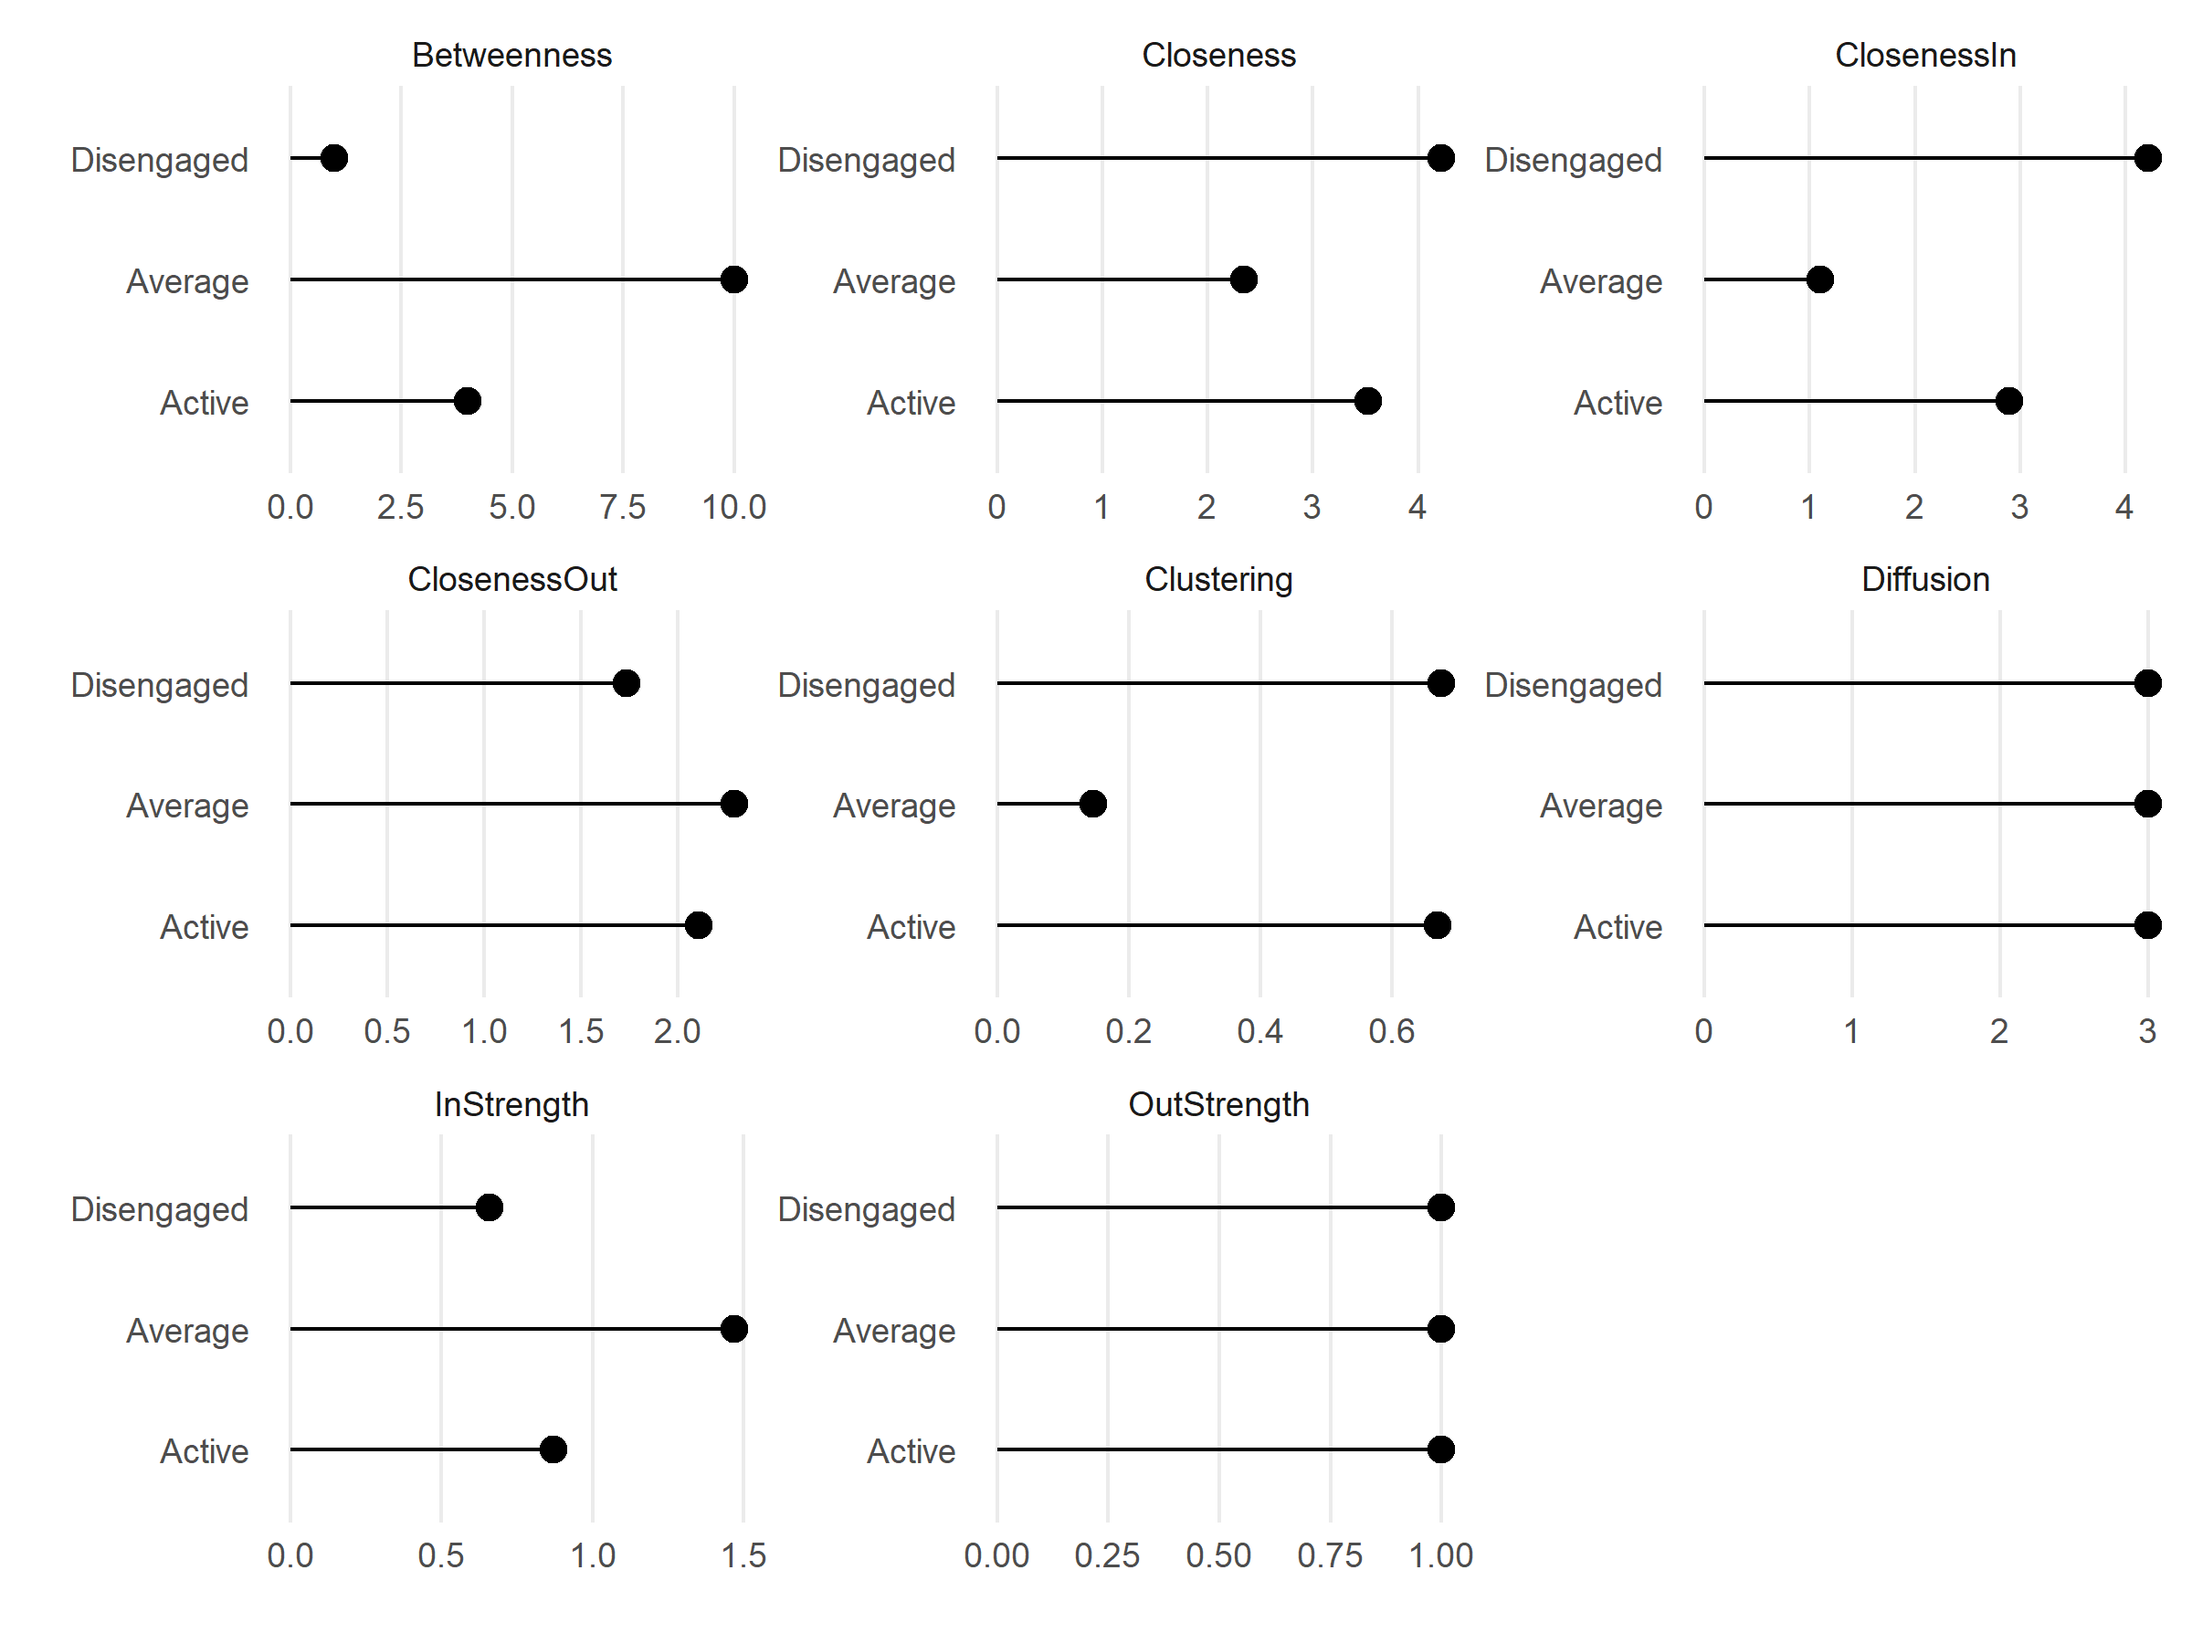
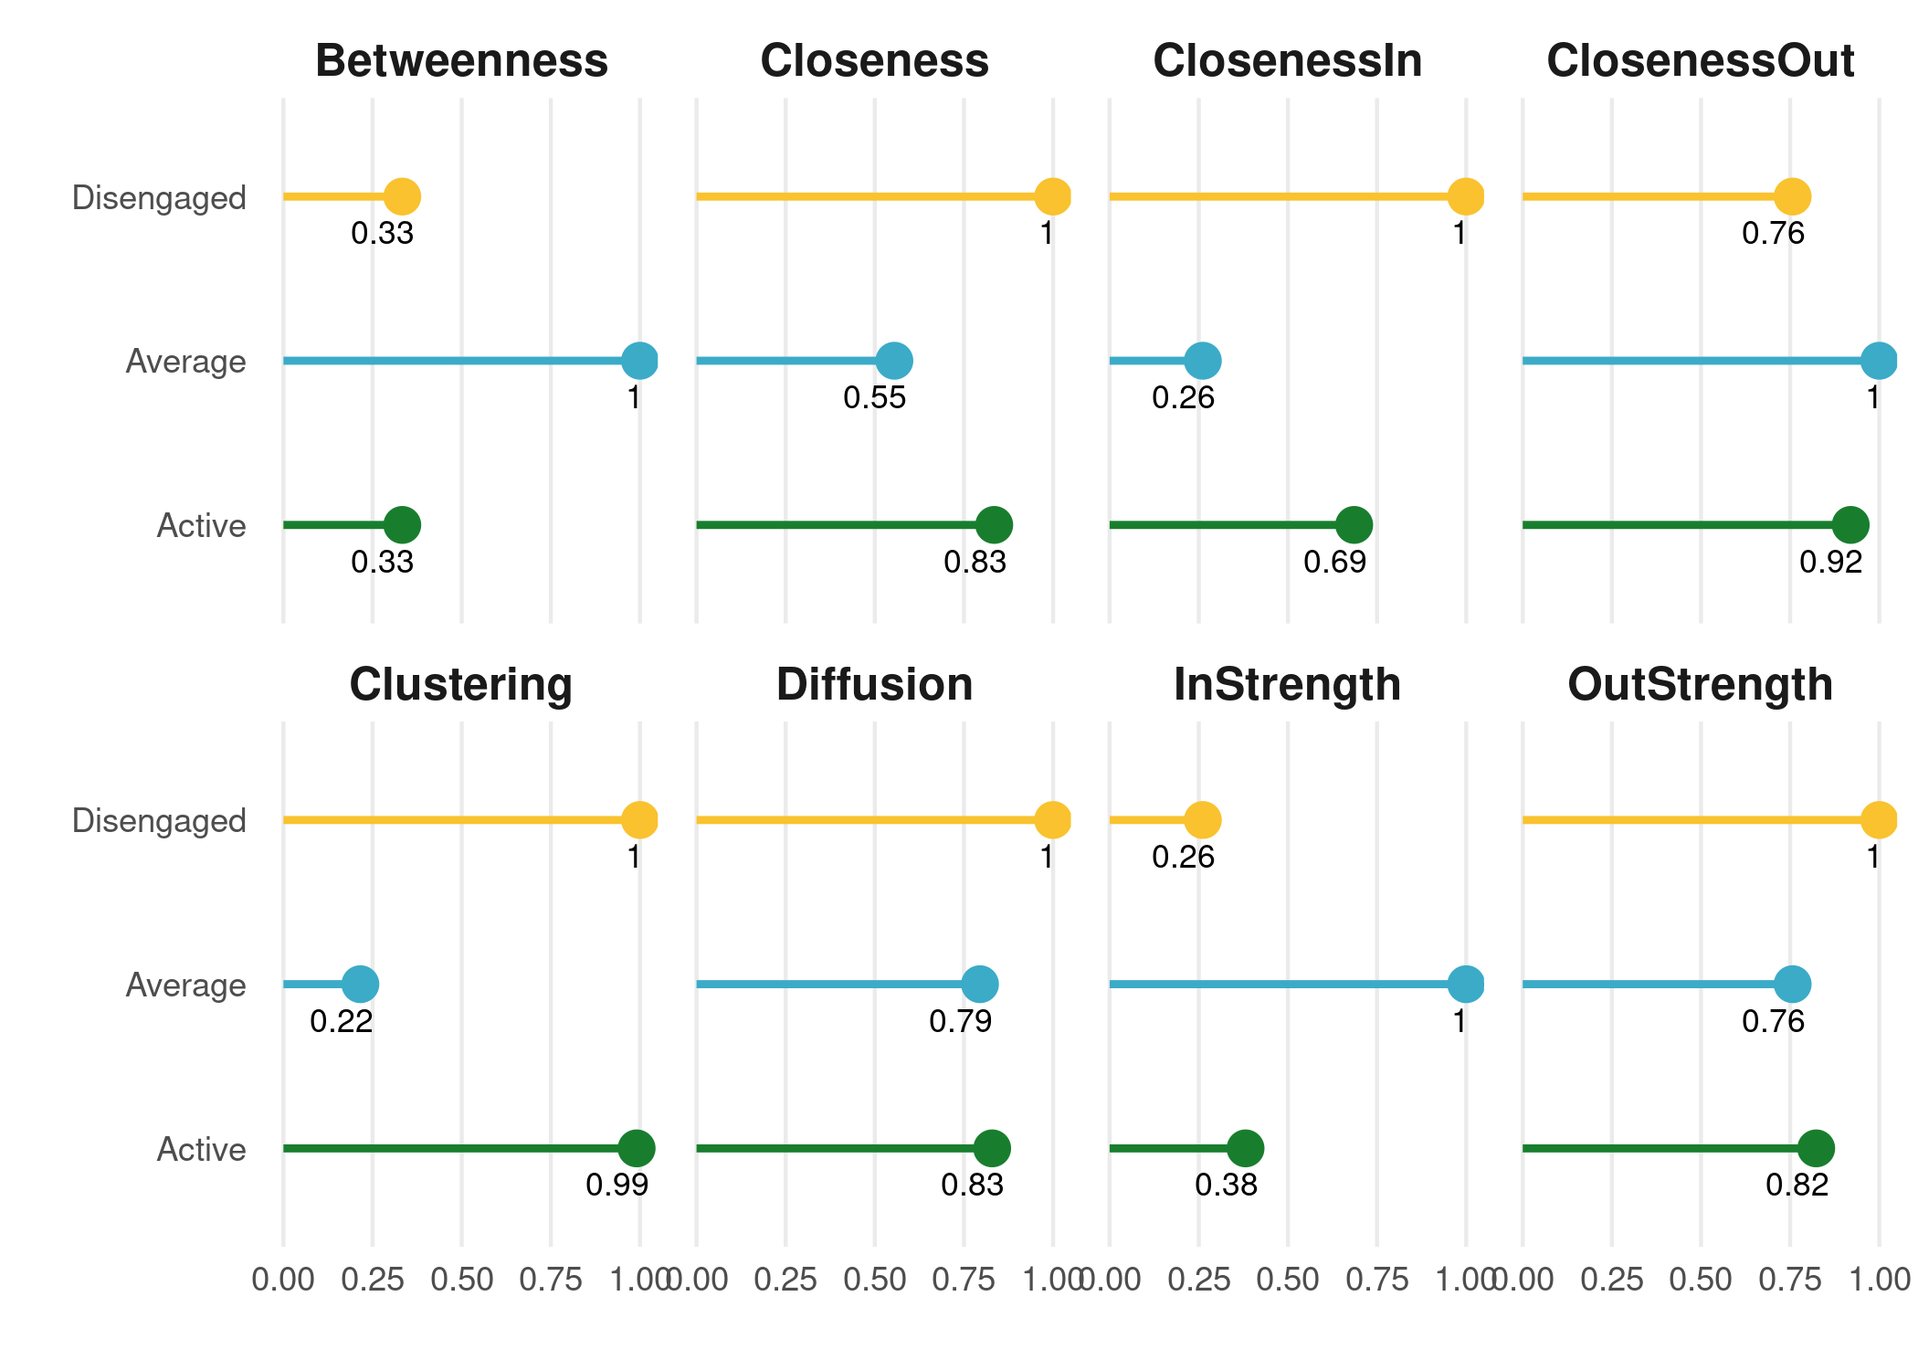
Improve plotting

diff --git a/README.md b/README.md
@@ -47,21 +47,31 @@ plot(tna_model)
 Calculate the centrality measures
 
 ``` r
-cm <- centralities(tna_model)
+cm <- centralities(tna_model, normalize = T)
 cm
 #> # A tibble: 3 × 9
 #>   State    OutStrength InStrength ClosenessIn ClosenessOut Closeness Betweenness
 #> * <chr>          <dbl>      <dbl>       <dbl>        <dbl>     <dbl>       <dbl>
-#> 1 Active             1      0.871        2.90         2.11      3.52           4
-#> 2 Average            1      1.47         1.10         2.29      2.34          10
-#> 3 Disenga…           1      0.660        4.22         1.73      4.22           1
+#> 1 Active         0.823      0.381       0.686        0.920     0.835       0.333
+#> 2 Average        0.757      1           0.261        1         0.555       1    
+#> 3 Disenga…       1          0.261       1            0.757     1           0.333
 #> # ℹ 2 more variables: Diffusion <dbl>, Clustering <dbl>
 ```
 
 Plot the centrality measures
 
 ``` r
-plot(cm)
+plot(cm, ncol =  4, scales = "fixed",
+     line_color = tna_model$colors, point_color = tna_model$colors) 
 ```
 
 <img src="man/figures/README-centralitiesplot-1.png" width="100%" />
+Compare those who started as active with the rest
+
+``` r
+tna_model_start_active <- build_tna(engagement[engagement[,1]=="Active",])
+tna_model_start_other <- build_tna(engagement[engagement[,1]!="Active",])
+plot_compare(tna_model_start_active, tna_model_start_other)
+```
+
+<img src="man/figures/README-unnamed-chunk-7-1.png" width="100%" />
